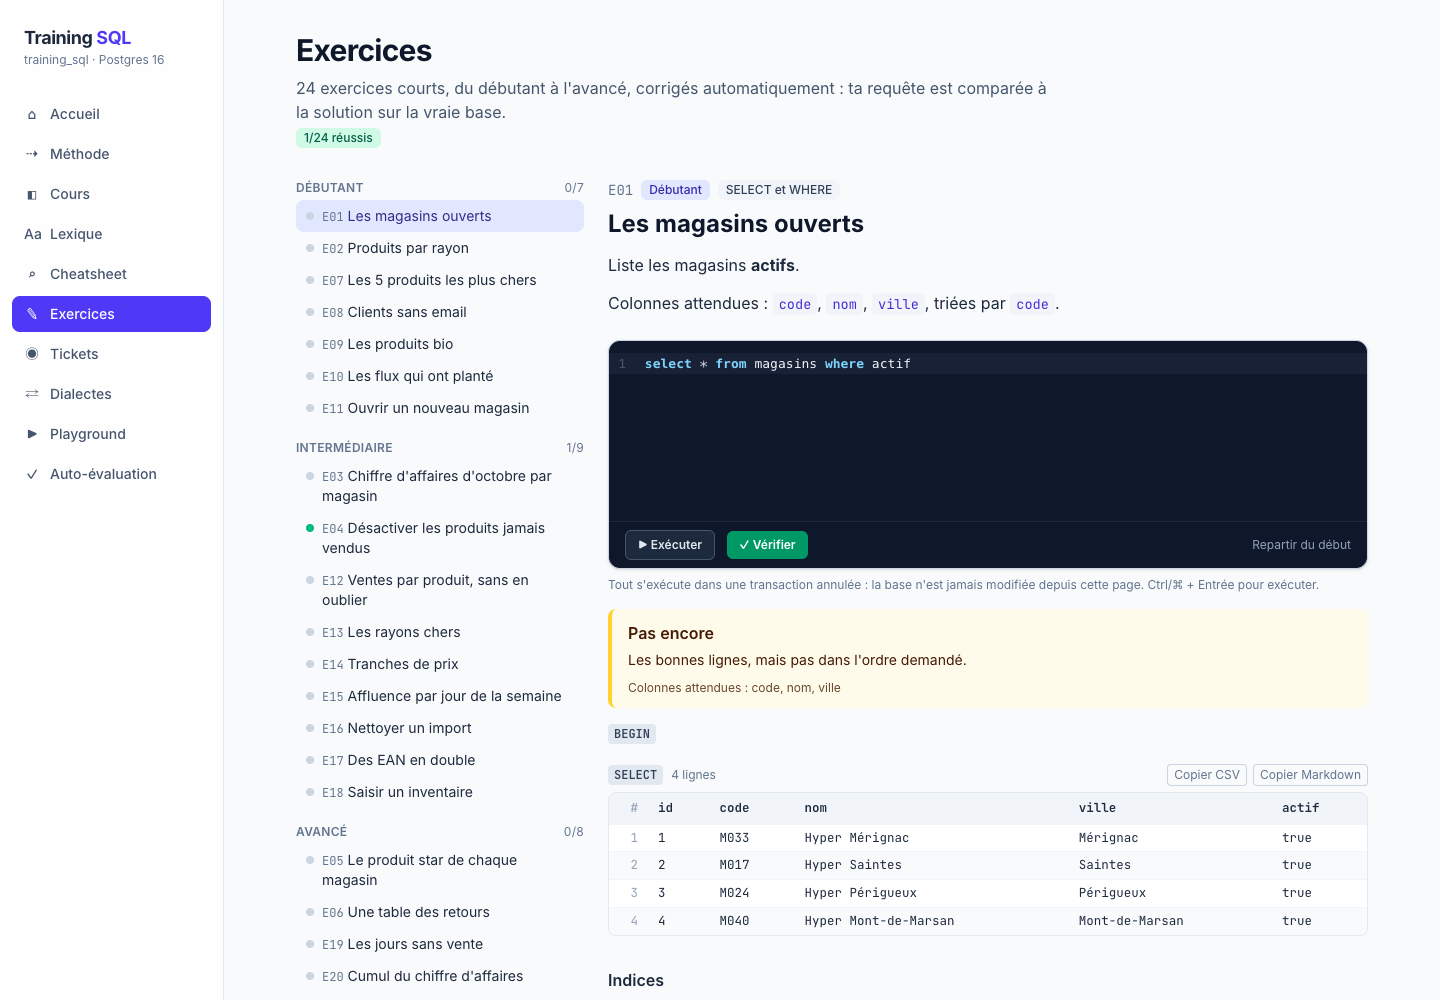
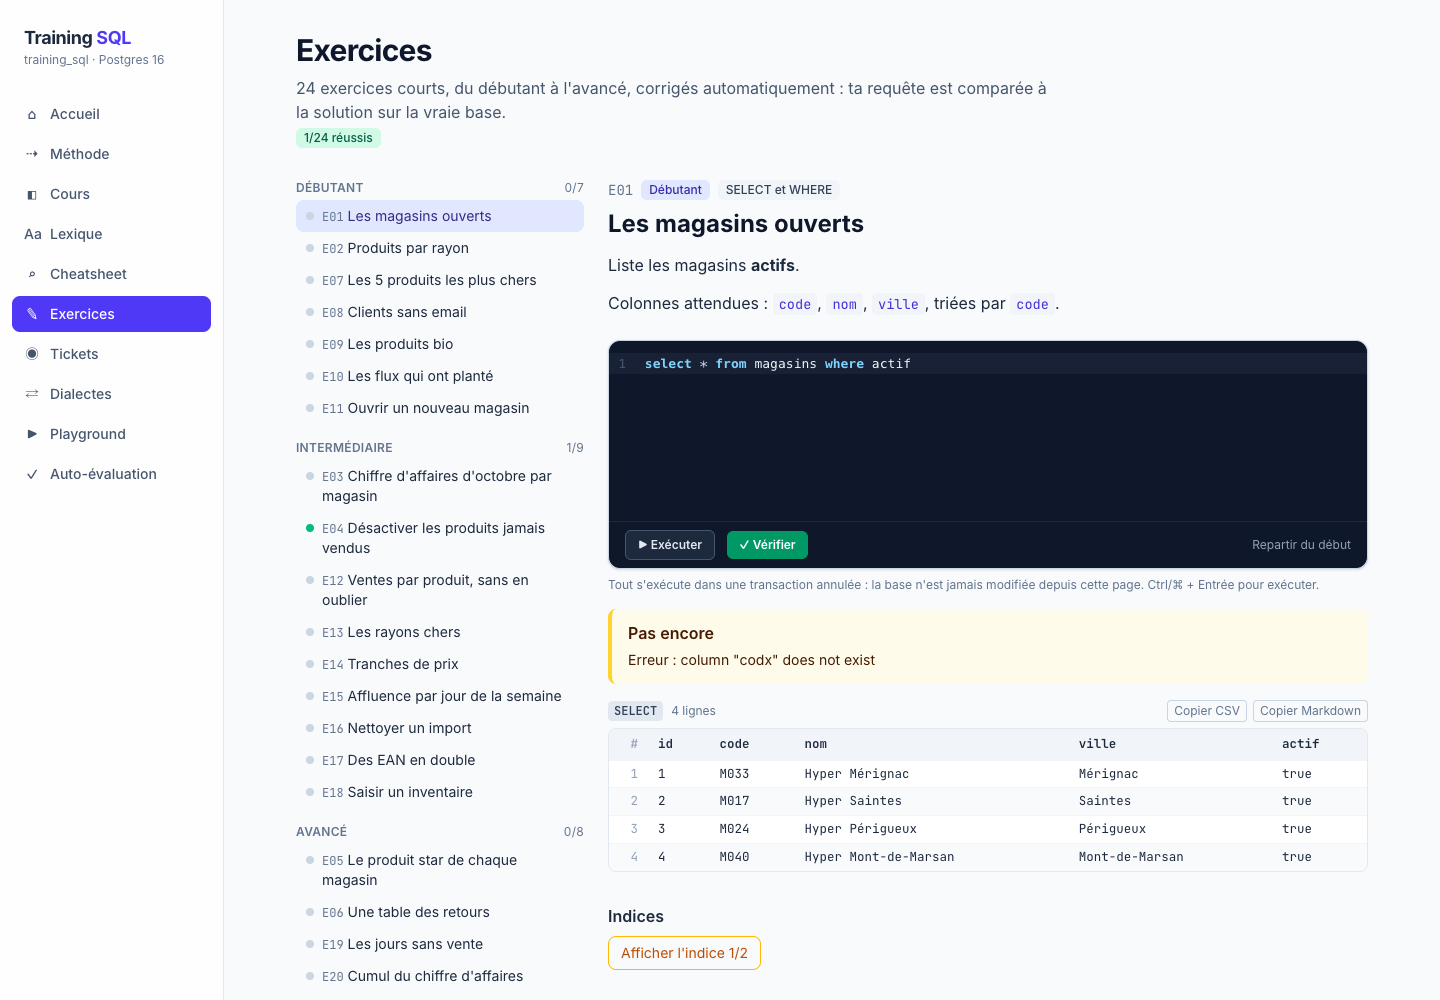
Correct two dialect rows and tidy the exercise Run output
- SQL Server cannot sort on x IS NULL: give the CASE form, keep the MySQL one
- Oracle 23ai accepts UPDATE ... FROM; MERGE is the pre-23ai form
- The Run button no longer shows the result of its own BEGIN, and error
  positions point at the learner's text again

SQLite rows were checked with sqlite3 3.45 and MySQL rows with MySQL 8.0.

diff --git a/app/src/pages/Exercises.tsx b/app/src/pages/Exercises.tsx
@@ -52,8 +52,13 @@ function ExerciseView({ ex, done, onDone }: { ex: Exercise; done: boolean; onDon
     const tx = transactionControl(sql)
     if (tx) return setResponse({ ok: false, ms: 0, error: { message: `Retire ${tx} : ici, tout est exécuté dans une transaction annulée.` } })
     setBusy(true)
-    // BEGIN ouvert et jamais validé : le serveur annule la transaction à la fin, la base reste intacte
-    setResponse(await runSql(`BEGIN; ${sql}`).catch((e) => ({ ok: false as const, ms: 0, error: { message: String(e) } })))
+    // BEGIN ouvert et jamais validé : le serveur annule la transaction à la fin, la base reste intacte.
+    // On retire ensuite le résultat du BEGIN et on recale la position d'erreur sur le texte de l'apprenant.
+    const prefix = 'BEGIN; '
+    const r: QueryResponse = await runSql(prefix + sql).catch((e) => ({ ok: false as const, ms: 0, error: { message: String(e) } }))
+    if (r.ok) r.results = r.results.slice(1)
+    else if (r.error.position) r.error.position = String(Number(r.error.position) - prefix.length)
+    setResponse(r)
     setBusy(false)
   }
 

diff --git a/app/src/content/dialects.ts b/app/src/content/dialects.ts
@@ -92,7 +92,7 @@ export const dialectRows: DialectRow[] = [
     pg: 'UPDATE t SET c = u.c\nFROM u WHERE u.id = t.id',
     mysql: 'UPDATE t JOIN u ON u.id = t.id\nSET t.c = u.c',
     mssql: 'UPDATE t SET c = u.c\nFROM t JOIN u ON u.id = t.id',
-    oracle: 'MERGE INTO t USING u ON (u.id = t.id)\nWHEN MATCHED THEN UPDATE SET t.c = u.c',
+    oracle: 'UPDATE t SET c = u.c\nFROM u WHERE u.id = t.id (23ai)\navant : MERGE',
     sqlite: 'UPDATE t SET c = u.c\nFROM u WHERE u.id = t.id (3.33+)',
   },
   {
@@ -242,7 +242,7 @@ export const dialectRows: DialectRow[] = [
     mssql: 'Au début',
     oracle: 'À la fin\n(NULLS FIRST / LAST)',
     sqlite: 'Au début\n(NULLS FIRST / LAST)',
-    note: 'Sans NULLS LAST (MySQL, SQL Server) : ORDER BY x IS NULL, x.',
+    note: 'Sans NULLS LAST : ORDER BY x IS NULL, x en MySQL ; ORDER BY CASE WHEN x IS NULL THEN 1 ELSE 0 END, x en SQL Server.',
   },
   {
     theme: 'NULL et types',
